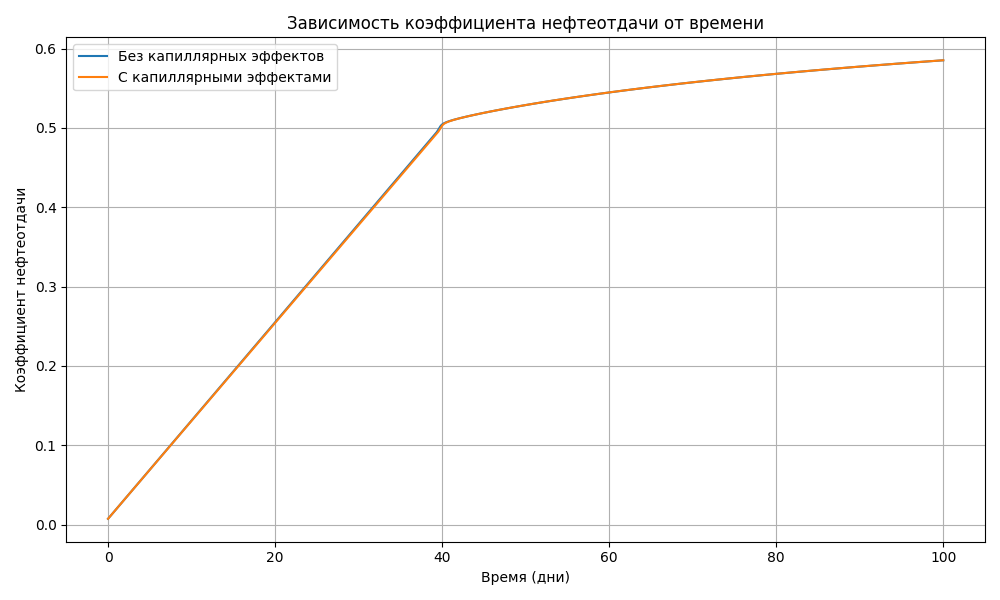
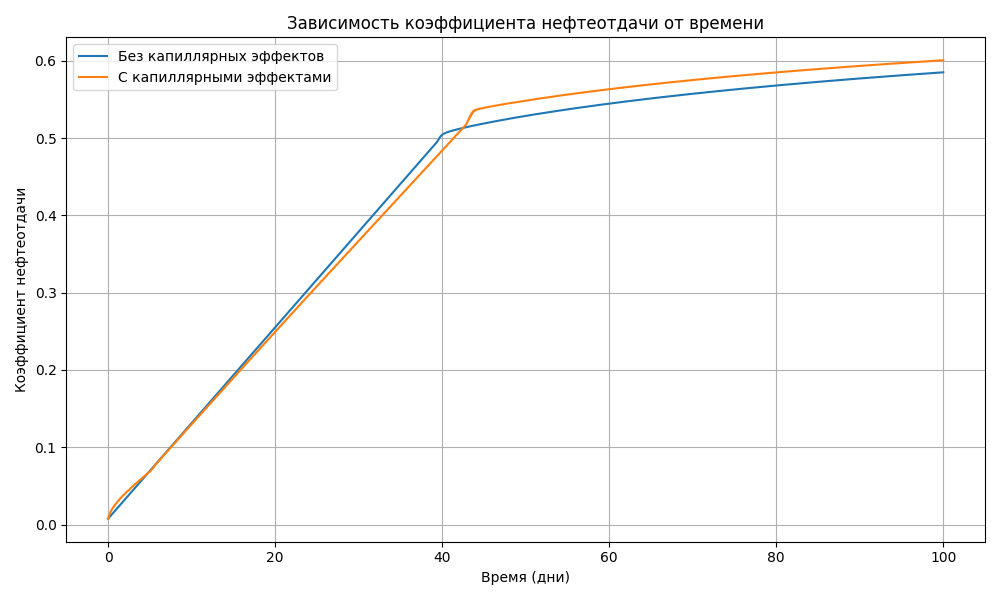
Added new plots for saturation profiles and capillary diffusion effects

diff --git a/visualizer.py b/visualizer.py
@@ -123,3 +123,223 @@ class Visualizer:
         self.plot_recovery_factor()
         self.plot_saturation_evolution()
         self.plot_pressure_profiles()
+
+        # Новые графики
+        self.plot_3d_saturation_surface()
+        self.plot_saturation_difference()
+        self.plot_filtration_velocities()
+        self.calculate_capillary_number()
+
+        # Примеры анализа чувствительности
+        self.plot_sensitivity_analysis('entry_pressure', [0.5, 1.0, 1.5, 2.0])
+        self.plot_sensitivity_analysis('wettability_factor', [0.2, 0.4, 0.6, 0.8])
+
+    def plot_3d_saturation_surface(self):
+        """Построение 3D поверхности водонасыщенности во времени и пространстве"""
+        from mpl_toolkits.mplot3d import Axes3D
+
+        fig = plt.figure(figsize=(14, 10))
+
+        # Создаем оси для двух графиков
+        ax1 = fig.add_subplot(211, projection='3d')
+        ax2 = fig.add_subplot(212, projection='3d')
+
+        # Создаем сетку для X и T
+        X, T = np.meshgrid(self.model.x, self.model.t)
+
+        # Строим 3D поверхность для модели без капиллярных эффектов
+        surf1 = ax1.plot_surface(X, T, self.model.Sw_without_cap,
+                                 cmap='viridis', edgecolor='none', alpha=0.8)
+        ax1.set_xlabel('Расстояние (м)')
+        ax1.set_ylabel('Время (дни)')
+        ax1.set_zlabel('Водонасыщенность')
+        ax1.set_title('3D-поверхность водонасыщенности без учета капиллярных эффектов')
+        fig.colorbar(surf1, ax=ax1, shrink=0.5, aspect=5)
+
+        # Строим 3D поверхность для модели с капиллярными эффектами
+        surf2 = ax2.plot_surface(X, T, self.model.Sw_with_cap,
+                                 cmap='viridis', edgecolor='none', alpha=0.8)
+        ax2.set_xlabel('Расстояние (м)')
+        ax2.set_ylabel('Время (дни)')
+        ax2.set_zlabel('Водонасыщенность')
+        ax2.set_title('3D-поверхность водонасыщенности с учетом капиллярных эффектов')
+        fig.colorbar(surf2, ax=ax2, shrink=0.5, aspect=5)
+
+        # Устанавливаем одинаковые углы обзора для обоих графиков
+        ax1.view_init(elev=30, azim=45)
+        ax2.view_init(elev=30, azim=45)
+
+        plt.tight_layout()
+        plt.savefig('saturation_3d.png', dpi=300)
+        plt.close()
+
+    def plot_saturation_difference(self):
+        """Визуализация разницы между моделями с учетом и без учета капиллярных эффектов"""
+        # Вычисляем разницу между насыщенностями
+        saturation_diff = self.model.Sw_with_cap - self.model.Sw_without_cap
+
+        # Создаем сетку
+        X, T = np.meshgrid(self.model.x, self.model.t)
+
+        plt.figure(figsize=(12, 6))
+
+        # Контурный график разницы
+        contour = plt.contourf(X, T, saturation_diff, levels=20, cmap='coolwarm')
+        plt.colorbar(label='Разница водонасыщенности')
+        plt.xlabel('Расстояние (м)')
+        plt.ylabel('Время (дни)')
+        plt.title('Разница водонасыщенности (с капиллярными эффектами - без капиллярных эффектов)')
+        plt.grid(True)
+
+        plt.tight_layout()
+        plt.savefig('saturation_difference.png')
+        plt.close()
+
+    def plot_sensitivity_analysis(self, param_name, param_values, day=50):
+        """Анализ чувствительности модели к различным параметрам"""
+        plt.figure(figsize=(10, 6))
+
+        # Словарь с русскими названиями параметров и их единицами измерения
+        param_names_ru = {
+            'entry_pressure': 'Капиллярное давление вытеснения',
+            'wettability_factor': 'Коэффициент смачиваемости породы',
+            'pore_distribution_index': 'Индекс распределения пор',
+            'porosity': 'Коэффициент пористости',
+            'mu_oil': 'Вязкость нефти',
+            'mu_water': 'Вязкость воды'
+        }
+
+        # Словарь с единицами измерения
+        param_units = {
+            'entry_pressure': 'МПа',
+            'wettability_factor': 'отн. ед.',
+            'pore_distribution_index': 'отн. ед.',
+            'porosity': 'д. ед.',
+            'mu_oil': 'мПа·с',
+            'mu_water': 'мПа·с'
+        }
+
+        # Получаем русское название параметра
+        param_name_ru = param_names_ru.get(param_name, param_name)
+        param_unit = param_units.get(param_name, '')
+
+        # Сохраняем оригинальное значение параметра
+        original_value = getattr(self.model, param_name)
+        recoveries = []
+        breakthrough_times = []
+
+        # Расчет для разных значений параметра
+        time_index = int(day / self.model.dt)
+        for value in param_values:
+            # Устанавливаем новое значение параметра
+            setattr(self.model, param_name, value)
+            # Пересчитываем модель
+            self.model.run_simulation()
+            # Получаем коэффициент нефтеотдачи
+            recovery_with_cap, _ = self.model.calculate_recovery_factor()
+            recoveries.append(recovery_with_cap[time_index])
+            # Получаем время прорыва
+            breakthrough_time, _ = self.model.get_breakthrough_time()
+            breakthrough_times.append(breakthrough_time)
+
+        # Возвращаем оригинальное значение параметра
+        setattr(self.model, param_name, original_value)
+        self.model.run_simulation()
+
+        # Создаем два подграфика
+        fig, (ax1, ax2) = plt.subplots(1, 2, figsize=(14, 6))
+
+        # График коэффициента нефтеотдачи
+        ax1.plot(param_values, recoveries, 'o-', color='#1f77b4', linewidth=2)
+        ax1.set_xlabel(f'{param_name_ru} [{param_unit}]')
+        ax1.set_ylabel(f'Коэффициент нефтеотдачи на {day}-й день, д. ед.')
+        ax1.set_title(f'Влияние параметра "{param_name_ru}" на нефтеотдачу')
+        ax1.grid(True, linestyle='--', alpha=0.7)
+
+        # График времени прорыва
+        ax2.plot(param_values, breakthrough_times, 'o-', color='#ff7f0e', linewidth=2)
+        ax2.set_xlabel(f'{param_name_ru} [{param_unit}]')
+        ax2.set_ylabel('Время прорыва воды, дни')
+        ax2.set_title(f'Влияние параметра "{param_name_ru}" на время прорыва')
+        ax2.grid(True, linestyle='--', alpha=0.7)
+
+        # Добавление значений на графики
+        for i, (x, y) in enumerate(zip(param_values, recoveries)):
+            ax1.annotate(f'{y:.3f}', (x, y), textcoords="offset points",
+                         xytext=(0, 10), ha='center', fontsize=9)
+
+        for i, (x, y) in enumerate(zip(param_values, breakthrough_times)):
+            ax2.annotate(f'{y:.1f}', (x, y), textcoords="offset points",
+                         xytext=(0, 10), ha='center', fontsize=9)
+
+        plt.tight_layout()
+        plt.savefig(f'sensitivity_{param_name}.png', dpi=300)
+        plt.close()
+
+    def plot_filtration_velocities(self, day=50):
+        """Графики распределения скоростей фильтрации"""
+        time_index = int(day / self.model.dt)
+
+        plt.figure(figsize=(10, 6))
+
+        # Расчет скоростей (упрощенно)
+        v_without_cap = np.zeros(self.model.nx)
+        v_with_cap = np.zeros(self.model.nx)
+
+        # Расчет скорости из функции Баклея-Леверетта
+        for i in range(self.model.nx):
+            v_without_cap[i] = self.model.fractional_flow(self.model.Sw_without_cap[time_index, i])
+            v_with_cap[i] = self.model.fractional_flow(self.model.Sw_with_cap[time_index, i])
+
+        # Строим график
+        plt.plot(self.model.x[:-1], v_without_cap, label='Без капиллярных эффектов')
+        plt.plot(self.model.x[:-1], v_with_cap, label='С капиллярными эффектами')
+
+        plt.xlabel('Расстояние (м)')
+        plt.ylabel('Скорость фильтрации (м/день)')
+        plt.title(f'Распределение скоростей фильтрации на {day}-й день')
+        plt.grid(True)
+        plt.legend()
+
+        plt.tight_layout()
+        plt.savefig('filtration_velocities.png')
+        plt.close()
+
+    def calculate_capillary_number(self):
+        """Расчет и визуализация капиллярного числа"""
+        # Создаем массив для капиллярного числа
+        capillary_number = np.zeros((self.model.nt, self.model.nx))
+
+        # Рассчитываем для каждой точки и времени
+        for n in range(self.model.nt):
+            for i in range(1, self.model.nx):
+                # Скорость фильтрации (упрощенно)
+                v = self.model.fractional_flow(self.model.Sw_with_cap[n, i])
+
+                # Капиллярное давление
+                pc = self.model.capillary_pressure(self.model.Sw_with_cap[n, i])
+
+                # Вязкость (упрощенно)
+                mu = self.model.mu_water * self.model.Sw_with_cap[n, i] + \
+                     self.model.mu_oil * (1 - self.model.Sw_with_cap[n, i])
+
+                # Капиллярное число (отношение вязких сил к капиллярным)
+                if pc > 0:
+                    capillary_number[n, i] = mu * v / pc
+                else:
+                    capillary_number[n, i] = 0
+
+        # Визуализация среднего капиллярного числа по времени
+        plt.figure(figsize=(10, 6))
+
+        avg_capillary_number = np.mean(capillary_number, axis=1)
+        plt.plot(self.model.t, avg_capillary_number)
+
+        plt.xlabel('Время (дни)')
+        plt.ylabel('Среднее капиллярное число')
+        plt.title('Изменение среднего капиллярного числа во времени')
+        plt.grid(True)
+
+        plt.tight_layout()
+        plt.savefig('capillary_number.png')
+        plt.close()

diff --git a/model.py b/model.py
@@ -39,6 +39,11 @@ class OilFiltrationModel:
         self.Sw_with_cap[:, 0] = 0.8
         self.Sw_without_cap[:, 0] = 0.8
 
+        # Параметры для модели капиллярного давления Брукса-Кори
+        self.entry_pressure = 1.0  # давление входа, МПа
+        self.pore_distribution_index = 1.5  # индекс распределения пор (λ)
+        self.wettability_factor = 0.6  # коэффициент смачиваемости (1 - гидрофильная, 0 - гидрофобная)
+
     def relative_permeability_water(self, Sw):
         """Относительная проницаемость для воды"""
         Swc = self.initial_water_saturation
@@ -75,17 +80,45 @@ class OilFiltrationModel:
         return M / (1 + M)
 
     def capillary_pressure(self, Sw):
-        """Функция капиллярного давления"""
+        """
+        Функция капиллярного давления по модели Брукса-Кори с плавным переходом
+        в граничных зонах для повышения численной стабильности.
+        """
+        # Параметры Брукса-Кори (добавить как атрибуты класса в __init__)
+        # self.entry_pressure = 0.3  # давление входа, МПа
+        # self.pore_distribution_index = 2.0  # индекс распределения пор
+        # self.wettability_factor = 0.8  # коэффициент смачиваемости (0-1)
+
+        # Граничные значения насыщенности
         Swc = self.initial_water_saturation
         Sor = self.residual_oil_saturation
 
-        if Sw <= Swc:
-            return 0.5  # МПа
-        elif Sw >= 1 - Sor:
-            return 0.0
+        # Избегаем численных проблем у границ диапазона насыщенности
+        epsilon = 0.01  # параметр сглаживания вблизи границ
+
+        if Sw <= Swc + epsilon:
+            # Плавный переход к максимальному капиллярному давлению
+            alpha = (Sw - Swc) / epsilon
+            max_pc = self.entry_pressure * 3.0  # максимальное капиллярное давление, МПа
+            return max_pc * (1.0 - alpha) + self.entry_pressure * alpha
+
+        elif Sw >= 1 - Sor - epsilon:
+            # Плавный переход к нулю капиллярного давления
+            alpha = (1 - Sor - Sw) / epsilon
+            return self.entry_pressure * 0.05 * alpha  # близко к нулю в конечной точке
+
         else:
-            Swn = (Sw - Swc) / (1 - Swc - Sor)
-            return 0.5 * ((1 - Swn) ** 2) / (Swn ** 2 + 1e-10)  # МПа
+            # Нормализованная водонасыщенность (эффективная)
+            Se = (Sw - Swc) / (1 - Swc - Sor)
+
+            # Модель Брукса-Кори
+            pc = self.entry_pressure * (Se ** (-1.0 / self.pore_distribution_index))
+
+            # Корректировка с учетом смачиваемости
+            # Для гидрофобной среды (oil-wet) увеличиваем капиллярное давление
+            pc = pc * (2.0 - self.wettability_factor)
+
+            return pc
 
     def diffusion_coefficient(self, Sw):
         """Коэффициент капиллярной диффузии"""
@@ -97,29 +130,27 @@ class OilFiltrationModel:
         Sw_minus = max(Sw - delta, 0.01)
         Sw_plus = min(Sw + delta, 0.99)
 
-        # Используем центральную разностную схему для аппроксимации производных
         df_dS = (self.fractional_flow(Sw_plus) - self.fractional_flow(Sw_minus)) / (2 * delta)
 
         # Вычисление производной капиллярного давления
         dpc_dS = (self.capillary_pressure(Sw_plus) - self.capillary_pressure(Sw_minus)) / (2 * delta)
 
-        # Коэффициент проницаемости (Дарси, м²)
-        k = 0.1  # уменьшаем значение для стабильности
+        # Увеличиваем коэффициент проницаемости для усиления эффекта
+        k = 1.0  # изменить с 0.1 на 1.0
 
-        # Средняя вязкость флюида (мПа·с)
         mu = max(self.mu_water * Sw + self.mu_oil * (1 - Sw), 0.1)
 
-        # Коэффициент диффузии с учетом теоретической формулы
+        # Теоретическая формула с БОЛЬШИМ усилением
         D = -k / (self.porosity * mu) * df_dS * dpc_dS
 
-        # Ограничиваем значения для обеспечения устойчивости
-        max_diffusion = 0.45 * self.dx ** 2 / self.dt  # из условия устойчивости
+        # Увеличиваем множитель с 0.05 до 1.0 для усиления эффекта
+        max_diffusion = 0.45 * self.dx ** 2 / self.dt
 
-        # Сглаживаем отрицательные значения и ограничиваем максимум
+        # Обрабатываем отрицательные значения и применяем ограничение устойчивости
         if D < 0:
-            return min(abs(D) * 0.05, max_diffusion)
+            return min(abs(D) * 1.0, max_diffusion)  # изменить множитель с 0.05 на 1.0
         else:
-            return min(D * 0.05, max_diffusion)
+            return min(D * 1.0, max_diffusion)  # изменить множитель с 0.05 на 1.0
 
     def run_simulation(self):
         """Запуск моделирования"""
